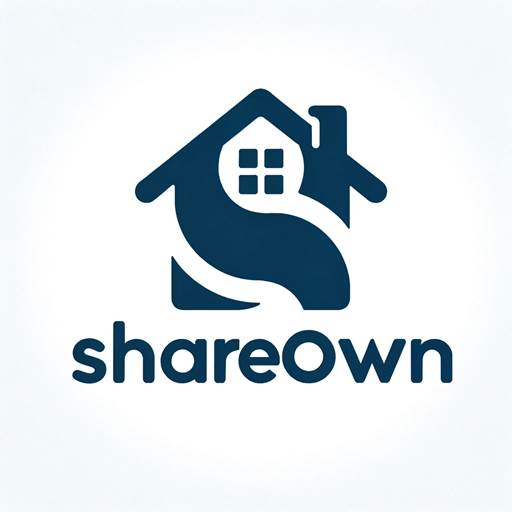
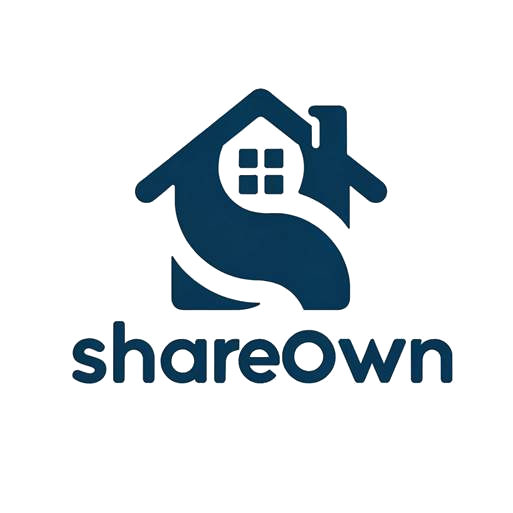
Niki additions

diff --git a/src/Components/Intro.js b/src/Components/Intro.js
@@ -13,46 +13,106 @@ function Intro() {
   };
 
   return (
-    <div className="bg-gray-900" style={{ minHeight: 'calc(110vh + 100px)' }}>
-      <div className="translate-y-[10rem]">
-        <h1 className="text-5xl text-white mb-2" style={{ color: 'lightblue', fontWeight: 'bold', textAlign: 'center' }}>
+    <div className="intro-and-3cols-wrapper">
+      <div className="bg-gray-900 main-intro-wrapper">
+      <div className="main-intro">
+        <h1 className="text-6xl text-white py-10" style={{ color: 'lightblue', fontWeight: 'bold', textAlign: 'center' }}>
           Housing Affordability <i>Lifetime Wealth</i> Calculator
         </h1>
-        <p className="text-2xl text-white mb-20" style={{ textAlign: 'center' }}>
-        Calculate Your Future Home Ownership Path and Lifetime Wealth Under Various Ownership Scenarios 
-        </p>
-        <button
+        <div className="main-underheading">        
+        <p className="text-3xl text-white py-10" style={{ textAlign: 'center' }}>
+        Calculate your lifetime wealth under various ownership scenarios 
+        </p></div>
+
+
+        <div className="button-wrapper">
+          <button
             onClick={() => scrollToSection("input")}
-            style={{ cursor: "pointer", backgroundColor: '#00BFFF' }} // Example button color change, adjust as needed
-            className="btn btn-lg text-neutral mb-40"
+            className="btn btn-lg text-neutral "
           >
             Start Now
           </button>
-        <h2 className="text-4xl text-white mb-2" style={{ color: 'lightblue', fontWeight: 'bold', textAlign: 'center'}}>
+        </div>
+      </div>
+
+      </div>
+      <div className="main-3-cols">
+        <div className="main-col1 main-col" >
+          <div>
+            <h2 className="text-4xl ">
           What it is 
-        </h2>
-        <p className="text-2xl text-white mb-20" style={{ textAlign: 'center' }}>
-        Our  housing affordability lifetime wealth calculator will help calculate your future home ownership path scenarios. 
-        It will also show you the wealth you accumulate during the rest of your working life in two scenarios, under full home ownership versus shared ownership.
-         </p>
-        <h2 className="text-4xl text-white mb-2" style={{ color: 'lightblue', fontWeight: 'bold', textAlign: 'center'}}>
+          </h2>
+          </div>
+          <div>          
+            <p >
+            Learn how your home ownership decisions will impact your lifetime wealth
+           </p>
+           </div>
+
+        </div>
+        <div className="main-col2 main-col">        
+        <div><h2 className="text-4xl">
           How it works
         </h2>
-        <p className="text-2xl text-white mb-10" style={{ textAlign: 'center' }}>
-        Our  housing affordability lifetime wealth calculator will help calculate your future home ownership path scenarios. 
-        It will also show you the wealth you accumulate during the rest of your working life in two scenarios, under full home ownership versus shared ownership.
+        </div>
+        <div> <p >
+        We will ask you to provide some basic information about your income, desired location of property, property price, age, and more, before the calculator is able to ‘run the numbers’.
          </p>
+         </div>
 
-        <p className="text-2xl text-white  mb-20" style={{ textAlign: 'center' }}>
-        Enter your details
-        We will ask you to provide some basic information about your income, desired location of property, property price, age, and more, before the calculator is able to ‘run the numbers’.  
-        </p>
+
+
+
+        </div>
+        <div className="main-col3 main-col">
+        <div>
+          <h2 className="text-4xl ">
+          What you find out
+          </h2>
+        </div>
+        <div>          
+          <p>
+          The calculator compares pathways to home ownership considering renting, buying using shared ownership and full ownership. 
+           </p>
+        </div>
+
+        <div className="col3-additional-info">
+          <h3 className="text-2xl">
+          Pathway to home ownership
+          </h3>
         
-        <p className="text-2xl text-white  mb-20" style={{ textAlign: 'center' }}>
+                
+          <p>
+          You will see at what age you will be able to buy your property or shared ownership as well as when you would fully own your home. 
+           </p>
+        
+
+        
+          <h3 className="text-2xl">
+          Staircasing
+          </h3>
+
+          <p>
+          You will be provided with a timeline of optimal staircasing under shared ownership.
+           </p>
+        
+           <h3 className="text-2xl">
+           Lifetime wealth
+          </h3>
+
+          <p>
+          You will be provided with a comparison graph of your lifetime wealth under shared ownership versus full ownership.
+           </p>
+        
+        </div>
+        </div>
+
+        <div className="cols-last-sentance">        
+        <p >
           <i>The lifetime calculator is based on an EPSRC-UCL research funded project. The underlying calculator is developed by academics at UCL and Durham University and is free of charge. It is not for commercial use and does not provide financial advice. ®</i>
         </p>
-        <div className="flex justify-end  mb-2">
         </div>
+        
       </div>
     </div>
   );

diff --git a/src/App.css b/src/App.css
@@ -91,3 +91,161 @@
   visibility: visible;
   opacity: 1;
 }
+
+.img-logo-wrapper {
+  flex: 0 1 8%;
+}
+
+.navbar {
+  justify-content: space-between;
+  padding: 10px 75px;
+}
+
+.text-logo {
+  font-size: 2.5em;
+  font-weight: bold;
+  --tw-bg-opacity: 1;
+  color: rgb(65 84 125);
+}
+
+.loading-data {
+  display: none;
+}
+
+.bg-gray-900.main-intro-wrapper {
+  display: flex;
+  flex-wrap: wrap;
+  justify-content: center;
+  width: 100%;
+}
+
+.main-intro, .main-3-cols {
+  max-width: 1100px;
+  display: flex;
+  flex-wrap: wrap;
+  justify-content: center;
+  align-items: center;
+  padding: 60px 0px;
+}
+
+
+.button-wrapper {
+  flex: 1 0 100%;
+}
+
+button.btn.btn-lg.text-neutral
+{
+  cursor: pointer;
+  background-color: #68aac0;
+  border-color: #68aac0;
+  letter-spacing: 2px;
+}
+
+button.btn.btn-lg.text-neutral:hover
+{
+  cursor: pointer;
+  background-color: #264d5a;
+  border-color: #264d5a;
+  color: #dbdbdb;
+}
+
+@media only screen and (max-width:1200px) {
+  .main-intro, .main-3-cols {
+    max-width: 900px;
+  }
+}
+
+.intro-and-3cols-wrapper {
+  display: flex;
+  flex-wrap: wrap;
+  justify-content: center;
+  align-items: center;
+  width: 100%;
+}
+
+.main-3-cols {
+  align-items: flex-start;
+}
+
+.main-col {
+  padding:0px 15px;
+  text-align: left;
+}
+
+.main-col div {
+  padding: 10px 0px;
+  font-size: 1.2em;
+}
+.main-col h2, .main-col h3 {
+  color:#264d5a;
+  font-weight: bold;
+}
+
+.main-col1,.main-col2 {
+  flex: 1 0 25%;
+}
+
+.main-col3 {
+  flex: 1 0 49%;
+}
+
+.cols-last-sentance {
+  padding-top:50px;
+}
+
+.input-carousel {
+  padding: 120px 0px;
+}
+
+.carousel button.btn {
+  margin-right: 10px;
+}
+
+
+.email-form-container {
+  max-width: 400px;
+  margin: 0 auto;
+}
+
+.email-form {
+  display: flex;
+  flex-direction: column;
+}
+
+.email-input {
+  width: 100%;
+  margin-bottom: 15px;
+  padding: 10px;
+  font-size: 16px;
+  border: 1px solid #ccc;
+  border-radius: 5px;
+  background-color: #f9f9f9;
+  transition: border-color 0.3s ease;
+}
+
+.submit-button {
+  width: 100%;
+  padding: 10px;
+  background-color: #68aac0 !important;
+  border-color: #68aac0 !important;
+  border: none;
+  border-radius: 5px;
+  cursor: pointer;
+  font-size: 22px;
+}
+
+.submit-button:hover {
+  background-color: #264d5a !important;
+  border-color: #264d5a !important;
+  color: #dbdbdb;
+}
+
+button#btn-up, button#btn-down {
+  background-color: #68aac0 !important;
+  border-color: #68aac0 !important;
+}
+
+button#btn-up:hover, button#btn-down:hover {
+  background-color: #264d5a !important;
+  border-color: #264d5a !important;
+}

diff --git a/src/Components/Navbar.js b/src/Components/Navbar.js
@@ -1,5 +1,5 @@
 import React from "react";
-import logo from "../Assets/icon-ShareOwn.png";
+import logo from "../Assets/logo-new.png";
 import homeIcon from "../Assets/home-icon.png";
 import blogIcon from "../Assets/blog-icon.png";
 import vidIcon from "../Assets/question-icon.png";
@@ -8,26 +8,29 @@ import { Link } from "react-router-dom";
 function Navbar() {
   return (
     <div>
-      <div className="navbar bg-gray-200 fixed z-20">
-        <div className="flex-1 flex items-left">
-          <img className="scale-[13%] absolute max-sm:hidden" src={logo} alt="logo"/>
+      <div className="navbar">
+        <div className="img-logo-wrapper">
+          <img className="img-logo" src={logo}  alt="logo"/>
         </div>
-        <div className="flex-none">
+        <div className="text-logo">
+        Lifetime Wealth Calculator
+        </div>
+        {/* <div className="flex-none">
           <ul className="menu menu-horizontal px-1">
             <li>
               <img className="absolute -ml-10" src={homeIcon} alt="home button"/>
               <Link to="/">Home</Link>
             </li>
-            <li>
+           <li>
               <img className="absolute -ml-8" src={blogIcon} alt="blog icon"/>
               <Link to="/blog"> Blog </Link>
             </li>
             <li>
               <img className="absolute -ml-8" src={vidIcon} alt="vid icon"/>
               <Link to="/vid"> Vid </Link>
-            </li>
+  </li> 
           </ul>
-        </div>
+        </div>*/}
       </div>
     </div>
   );

diff --git a/src/Components/Email.js b/src/Components/Email.js
@@ -17,16 +17,19 @@ function EmailForm() {
   };
 
   return (
-    <form onSubmit={handleSubmit}>
+    <div className='email-form-container'>
+      <form onSubmit={handleSubmit} className='email-form'>
       <input
         type="email"
         value={email}
+        className='email-input'
         onChange={(e) => setEmail(e.target.value)}
         placeholder="Enter your email"
         required
       />
-      <button type="submit">Submit</button>
+      <button className='submit-button text-neutral' type="submit">Submit</button>
     </form>
+    </div>
   );
 }
 

diff --git a/src/Components/Results.js b/src/Components/Results.js
@@ -257,9 +257,6 @@ const renderTwoColumnsText = () => {
           </div>
           <div className="w-1/2 text-left">
 
-
-
-
             {/* Column 2 */}
             <h2 className="text-2xl font-bold mb-4">Shared Ownership</h2>
             <p className="font-bold mb-2">Deposit</p>
